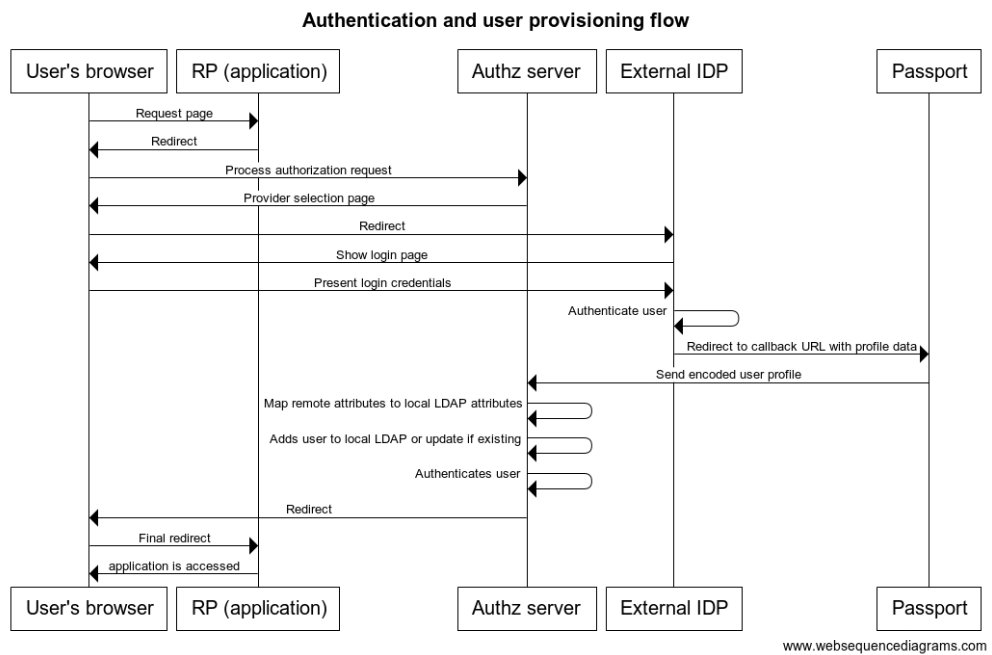
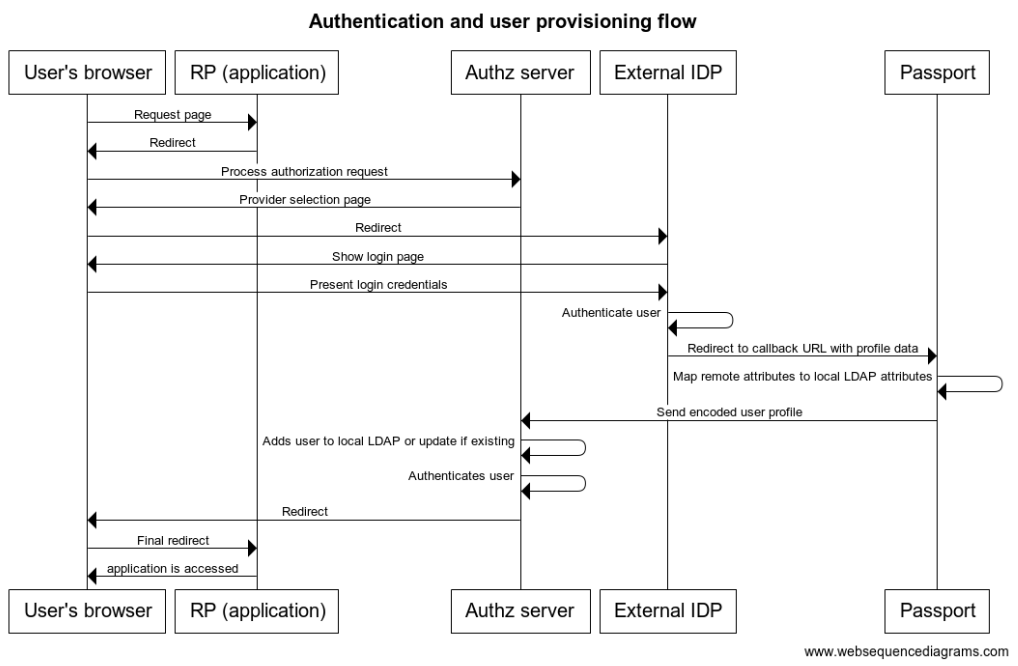
Adjust images #169

Changed region(s): [[0.0, 0.0, 1.0, 1.0]]

diff --git a/docs/source/authn-guide/inbound-oauth-passport.md b/docs/source/authn-guide/inbound-oauth-passport.md
@@ -7,7 +7,7 @@ The [introductory page](./passport.md) provides a quick glance at key concepts t
 1. Custom script:
 
     - In oxTrust navigate to `Configuration` > `Custom scripts`          
-    - Navigate to the `Person Authentication` tab, expand the script labelled `passport_social`, check `enabled`, and click `Update`    ![Enable passport_social](../img/user-authn/passport/enable-passport.png)     
+    - Navigate to the `Person Authentication` tab, expand the script labelled `passport_social`, check `enabled`, and click `Update`    ![Enable passport_social](../img/user-authn/passport/enable-passport_social.png)     
     - Navigate to the `UMA RPT Policies` tab, expand the script labelled `scim_access_policy`, check `enabled`, and click `Update`       
       
 1. Passport support:    
@@ -50,6 +50,8 @@ The following are the steps required to integrate an external OP for login in an
 
 1. Click on `Add` (meanwhile accept the default values for the remaining fields)
 
+![oidc_provider](../img/user-authn/passport/oidc_provider.png) 
+
 **Note:**
 A simple standard [attribute mapping](./passport.md#attribute-mapping-and-transformation) is used for OpenID Connect providers by default. This will populate LDAP attributes `uid`, `mail`, `cn`, `displayName`, `givenName`, and `sn` if the relevant corresponding claims were gathered in the `userInfo` request.
 To learn more about how mappings work check the [tutorial](../tutorials/passport-attributes-mapping.md). Also review the file `/opt/gluu/node/passport/server/mappings/openidconnect-default.js` in Gluu chroot. If you need to make adjustments, do not edit the default mapping file but create a new one based on its contents.
@@ -65,6 +67,8 @@ https://your-gluu-host/passport/auth/<PROVIDER-ID>/callback
 ```
 
 where `PROVIDER-ID` is the identifier assigned to the provider recently added. This can be seen in the summary table of providers (ID column). In oxTrust just visit `Passport` > `Providers`.
+
+![summary_table](../img/user-authn/passport/summary_table.png)
 
 After the process is finished you should be given a client ID and a client Secret.
 
@@ -91,6 +95,8 @@ When using oxd, administrators can follow the steps similar as [above](#integrat
 - If you need to supply values for optional properties account their values must be provided as JSON content. The following are examples of valid JSON values: `true`, `0`, `"a string"`, `["item1", "item2"]`, `{ "key": { "some": "value" }}`.
 
 - `/opt/gluu/node/passport/server/mappings/oxd-default.js` is the default mapping file. Create your own if it does not fit your needs.
+
+![oidc_oxd_provider](../img/user-authn/passport/oidc_oxd_provider.png) 
 
 #### Using an external Gluu Server as OP
 
@@ -205,7 +211,9 @@ The following are the steps required to offer social login in an OIDC applicatio
     It is recommended to create mappings based on existing mapping files. Make a copy of any file listed in the table above (see directory `/opt/gluu/node/passport/server/mappings` in Gluu chroot) and name it appropriately. Enter the name (without file extension) in the form field. The [tutorial](../tutorials/passport-attributes-mapping.md) contains instructions on how to write attribute mappings. It is an easy task and generally does not demand programming skills.
     
 1. If the provider being added is present in the table above, enter `../../ext/resources/img/passport/<mapping>.png` (we already bundle images for the social sites supported out-of-the-box). Otherwise check this [section](./passport.md#about-logo-images) of the introductory page.
-
+    
+    ![oauth_provider](../img/user-authn/passport/oauth_provider.png) 
+    
 1. `Authenticate params` is a field that normally can be left empty. It is employed to supply the value for the second parameter of Passport.js method `passport.authenticate`. It is recommended to supply data here only when the provider to be added is not listed in the table above.
 
     As an example suppose [VKontakte](http://www.vk.com) is the external provider to integrate. To have access to user's email a proper scope must be specified (check [here](https://github.com/stevebest/passport-vkontakte#extended-permissions) and [here](https://vk.com/dev/permissions)). In this case the field `Authenticate params` can be filled this way: `{ "scope": ["email"] }`. Note the usage of `"` instead of `'` and that object keys have to be wrapped with `"`.
@@ -237,6 +245,8 @@ https://your-gluu-host/passport/auth/<PROVIDER-ID>/callback
 
 where `PROVIDER-ID` is the identifier assigned to the provider recently added. This can be seen in the summary table of providers (ID column). In oxTrust just visit `Passport` > `Providers`.
 
+![summary_table](../img/user-authn/passport/summary_table.png)
+
 Once the application is created you will be given two pieces of data: client ID and client secret. Terminology varies depending on provider; sometimes it is called consumer key and consumer secret, or app ID and app secret, etc. For instance, [this is how it looks on Facebook](../img/user-authn/passport/fb-addurl.png).    
 
 ### Supply strategy parameters
@@ -254,6 +264,8 @@ new VKontakteStrategy(
 ```
 
 If this behavior is desired, click on `Add new property`, fill on the left with `profileFields` and on the right with the actual value for this property (eg. `["email", "city", "bdate"]`). Note again the use of `"` in preference of `'`
+
+![oauth_provider_params](../img/user-authn/passport/oauth_provider_params.png)
 
 Any number of properties can be added. The following are examples of valid values for a property: `true`, `0`, `"a string"`, `["item1", "item2"]`.
 
@@ -293,7 +305,7 @@ Once login is successful, you can check user profile data as explained [here](#c
 
 Once login is successful, check user data by navigating to `Personal` > `Profile` in oxTrust. Alternatively you can use the admin user and navigate to `Users` > `Manage people` to inspect the recently created user entry.
 
-To check the actual profile data received during the authentication transaction, review the [logs](./passport.md#files-and-severity-level) and search for a message that looks like "Resulting profile data is". To be able to view this message, set logging level to debug and wait for the server to pick the changes.  
+To check the actual profile data received during the authentication transaction, review the [logs](./passport.md#files-and-severity-level) and search for a message that looks like "Resulting profile data is". To be able to view this message, set logging level to `debug` and wait for the server to pick the changes.  
 
 If you modify some aspect of your profile at the external provider and attempt to re-login, the user attributes will also be updated in your local Gluu LDAP.
 

diff --git a/docs/source/authn-guide/passport.md b/docs/source/authn-guide/passport.md
@@ -35,6 +35,7 @@ The following is a high-level diagram depicting a typical inbound identity user 
 1. Without a session, user's browser is redirected to a page showing a list where he can choose the identity provider he wants to use for login (eg. a SAML IDP or a OIDC OP). 
 1. User is taken to the external site where he is asked for login credentials.
 1. Upon successful authentication, a redirection is made to Passport Node app where user's profile data is gathered.
+1. Attribute mapping is performed upon profile data so it is suitable for LDAP insertion
 1. Passport securely sends relevant profile data to Gluu authentication component (oxAuth)
 1. If the user does not exist already in local Gluu LDAP, it is created with the attributes present in profile data (if already existing, the profile is updated)
 1. A session is created for the user at the authorization server. The user access the application.
@@ -58,7 +59,7 @@ Gluu Passport is built upon the popular authentication middleware [Passport.js](
 
 ## Passport configuration
 
-For most inbound identity needs, we provide an easy point-and-click solution to configure your setup. To learn how to integrate and configure inbound identity for SAML providers visit [this](./inbound-saml-passport.md) page. For OpenID connect and OAuth providers find the relevant contents [here](./inbound-oauth-passport.md).
+For most inbound identity needs, we provide an easy point-and-click solution to configure your setup. To learn how to integrate and configure inbound identity for **SAML providers** visit [this](./inbound-saml-passport.md) page. For **OpenID connect and OAuth providers** find the relevant contents [here](./inbound-oauth-passport.md).
 
 At a high level the following can be performed directly via the admin UI:
 
@@ -79,6 +80,8 @@ In Gluu chroot, Passport logs can be found in directory `/opt/gluu/node/passport
 1. Set the log level in "Logging settings" section
 
 1. Press the update button
+
+![Logging](../img/user-authn/passport/logging.png) 
 
 !!! Note:
     The console log only option sends all messages to `stdout` and prevents messages be written to log files or message queue 
@@ -118,7 +121,6 @@ Passport already bundles several mappings by default. Most of them are targetted
 
 !!! Note:
     This section assumes you have already onboarded (integrated) one or more external providers in Passport. If you haven't done so, visit [this page](./inbound-saml-passport.md) (for SAML providers) or visit [this page](./inbound-oauth-passport.md) (for OpenID connect and OAuth providers).
-
 
 ### How user onboarding works
 
@@ -226,3 +228,6 @@ Out of the box the providers selection page will show on the right pane a list o
 1. Wait 1 minute, then verify the image appears correctly by acessing your application in a browser.
 
 Alternatively you can use an absolute URL for logo if the image is hosted elsewhere (e.g. `https://another.site.co/path/to/image`).
+
+![Logo](../img/user-authn/passport/logo.png) 
+

diff --git a/docs/source/authn-guide/inbound-saml-passport.md b/docs/source/authn-guide/inbound-saml-passport.md
@@ -7,7 +7,7 @@ The [introductory page](./passport.md) provides a quick glance at key concepts t
 1. Custom script:
 
     - In oxTrust navigate to `Configuration` > `Custom scripts`          
-    - Navigate to the `Person Authentication` tab, expand the script labelled `passport_saml`, check `enabled`, and click `Update`    ![Enable passport_saml](../img/user-authn/passport/enable-passport.png)     
+    - Navigate to the `Person Authentication` tab, expand the script labelled `passport_saml`, check `enabled`, and click `Update`    ![Enable passport_saml](../img/user-authn/passport/enable-passport_saml.png)     
     - Navigate to the `UMA RPT Policies` tab, expand the script labelled `scim_access_policy`, check `enabled`, and click `Update`       
       
 1. Passport support:    
@@ -59,6 +59,8 @@ By default only a small set of parameters for a working setup are shown in the o
 
 !!! Note: 
     The certificate supplied for `cert` is the one intended for signing. For example, if you are using Shibboleth bundled in a Gluu Server instance, visit `https://<remote-gluu-host>/idp/shibboleth` and see the contents of XML tag `KeyDescriptor` where `use="signing"` inside `IDPSSODescriptor` tag.
+
+![saml_provider](../img/user-authn/passport/saml_provider.png)
 
 #### Supply extra properties if needed
 
@@ -141,6 +143,8 @@ https://<your-gluu-host>/passport/auth/saml/<PROVIDER-ID>/callback
 
 where `PROVIDER-ID` is the identifier assigned to the given IDP. In oxTrust just visit `Passport` > `Providers` and see ID column in the providers table. 
 
+![summary_table](../img/user-authn/passport/summary_table.png)
+
 This is the same endpoint used in the regular flow where SAML requests are previously sent to the IDP.
 
 ### Configuring the flow
@@ -157,6 +161,8 @@ In order to enable IDP-initiated inbound capabilities for an existing IDP, proce
 - Click the `Add` button
 - Choose the IDP you want to enable usage of IDP-initiated flow
 - Accept the defaults and click on `Update`
+
+![IDP-initiated config for an IDP](../img/user-authn/passport/ii_choose_provider.png)
 
 From here on, if the IDP sends an unsolicited response to Passport ACS, an OIDC authorization request will be issued by using the client that appears selected on the top of the form (by default the "Passport IDP-initiated flow Client"). After the user is authenticated in Gluu, a redirection will be made to `https://<your-gluu-host>/oxauth/auth/passport/sample-redirector.htm` which will simply redirect to the value of the `relayState` which is assummed to be a valid URL.
 
